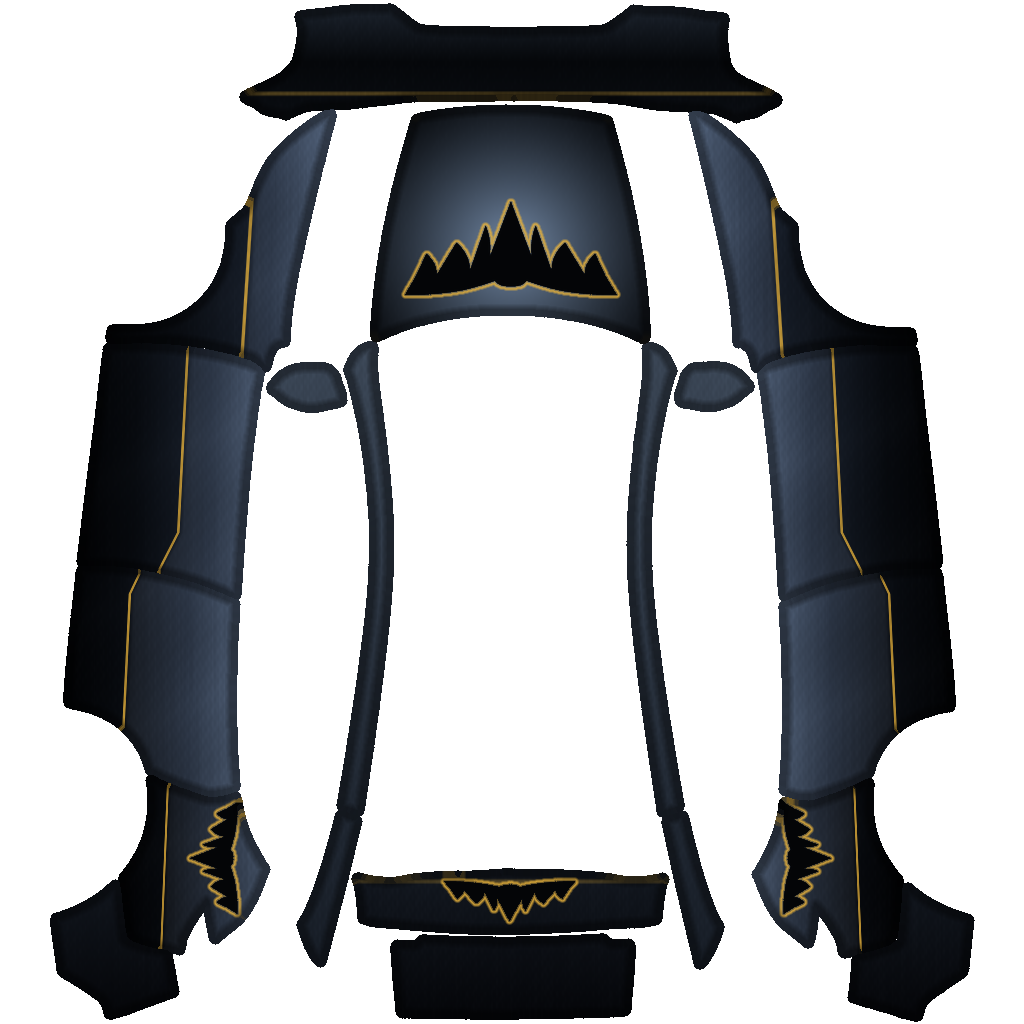
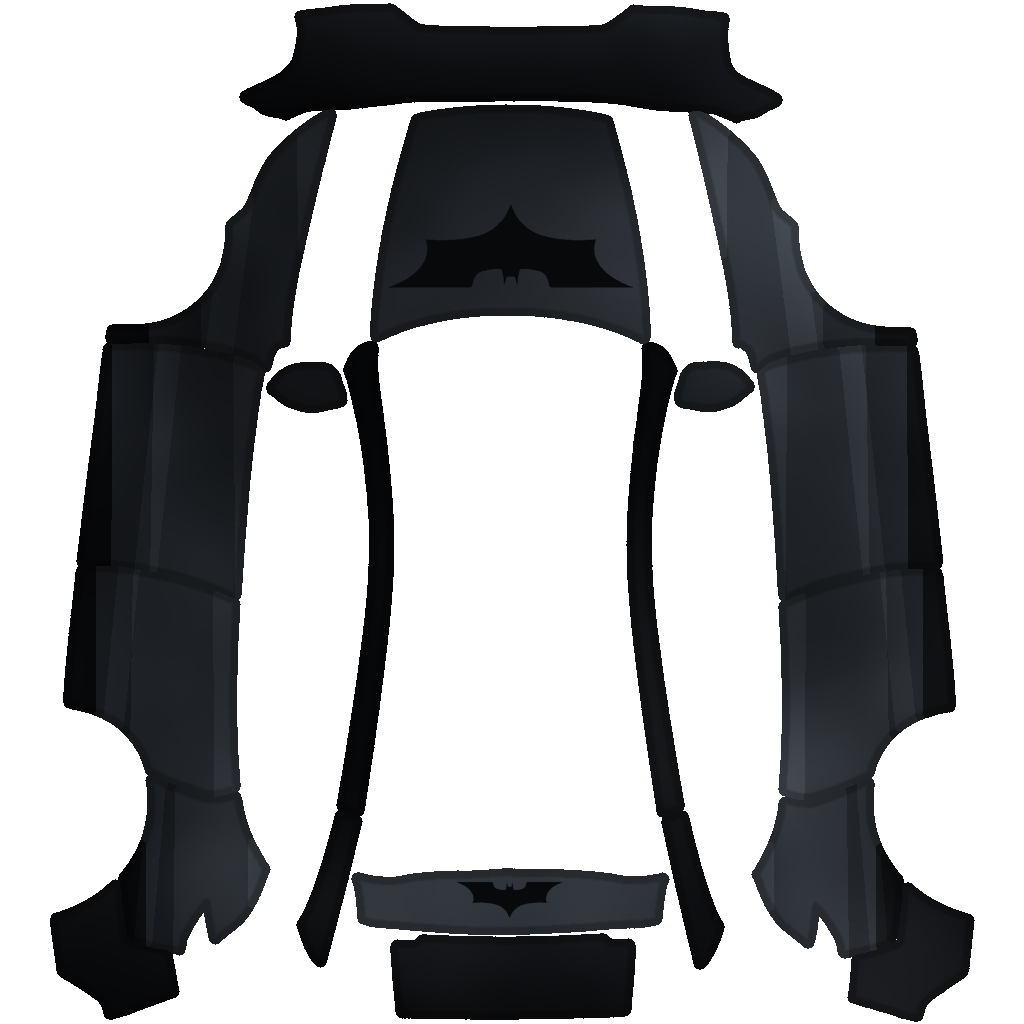
feat(tesla_wraps): trace the Nolan bat, rebuild Dark Knight as matte Tumbler
The hand-drawn bat was a generic gothic silhouette with a long tail. Replaced
it with the wide, flat Dark Knight trilogy shape traced from a reference and
mirrored to be exactly symmetric — height is 0.3385 of width, and _stamp_bat
now derives height from width so the logo can never be stretched to fill a
panel.

Reworked the livery after the Tumbler: flat matte, no accent colour, no
metallic grain or specular sweep (either reads as gloss vinyl). Interest comes
from hard-edged armour facets a few percent apart in value plus one raking
blade across the doors. Dropped the amber hairlines, the hood glow, the emblem
halo and the quarter-panel badges.

Crest placement moved into DARK_KNIGHT_CRESTS with a test asserting each crest
lies entirely inside its island — the rear hatch band is only ~41px of
full-width texture and the previous size clipped the wingtips.

Hood orientation confirmed against Tesla's own Reindeer example, whose muzzle
sits at the bumper and antlers at the windscreen.

diff --git a/skills/tesla_wraps/designs.py b/skills/tesla_wraps/designs.py
@@ -14,6 +14,20 @@ from . import emblems, paint
 from .atlas import SIDE_PANELS, Atlas
 
 
+# Bat crest placements: (panel, centre_y, width, faces_rearward). Centre X is
+# the panel's own centroid. These are sized to the panel rather than centred
+# blindly: the hood tapers towards the bumper so its crest sits aft of centre,
+# and the hatch band is only ~41px of full-width texture, so a wider crest
+# there would clip its wingtips against the rear glass.
+# `flip` orients hood art for a viewer standing at the nose — verified against
+# Tesla's own Reindeer example, whose muzzle points at the bumper and antlers
+# at the windscreen.
+DARK_KNIGHT_CRESTS = (
+    ("hood", 246.0, 244.0, True),
+    ("rear_hatch", 900.0, 106.0, False),
+)
+
+
 class Canvas:
     """A float RGB canvas plus its alpha, with per-panel coordinate frames."""
 
@@ -43,7 +57,7 @@ class Canvas:
     def _seam_proximity(self) -> np.ndarray:
         """1.0 at a panel's edge falling to 0 a few pixels in — for panel-gap shading."""
         depth = paint.edge_distance(self.painted)
-        return np.clip(1.0 - depth / 7.0, 0, 1) * self.painted
+        return np.clip(1.0 - depth / 4.0, 0, 1) * self.painted
 
     def mask(self, *names: str) -> np.ndarray:
         return self.atlas.mask_of(*names)
@@ -61,86 +75,66 @@ def _metal_grain(canvas: Canvas, seed: int, grain: float, weave: float) -> None:
 
 
 def dark_knight(atlas: Atlas) -> Canvas:
-    """Matte black armour with gunmetal facets, amber hairlines and a bat crest."""
+    """Tumbler-inspired matte black: flat armour facets, no shine, bat crest.
+
+    The Tumbler's finish is bead-blasted matte over hard angular plating, so
+    this design deliberately has no accent colour, no gradient that could read
+    as a highlight, and no metallic grain — every bit of interest comes from
+    hard-edged facets sitting a few percent apart in value.
+    """
     c = Canvas(atlas)
     rgb, u, v = c.rgb, c.u, c.v
 
-    INK, GRAPHITE, GUNMETAL = "#05070A", "#161C25", "#2A323E"
-    AMBER, STEEL = "#E8B23A", "#3D4959"
-
-    paint.fill(rgb, c.painted, INK)
-
-    # Body sides: lit along the beltline, falling into black at the rocker.
-    body = c.body
-    paint.gradient(
-        rgb, body, v, [(0.0, "#333F51"), (0.28, "#1B2330"), (0.70, "#080B10"), (1.0, "#020305")]
+    VOID, BLACK, CHARCOAL, GRAPHITE, PLATE = (
+        "#08090B",
+        "#101215",
+        "#191C20",
+        "#23272C",
+        "#2E3238",
     )
-    paint.shade(rgb, -0.18 * u * body)
 
-    # The armour break: a shoulder plate whose lower edge steps down once as it
-    # runs rearward, so the black-on-black split has an angular kink rather than
-    # reading as a plain pinstripe.
-    sweep = 0.30 + 0.30 * u + 0.16 * np.clip((u - 0.52) / 0.06, 0, 1)
-    paint.shade(rgb, 0.34 * np.clip((sweep - v) / 0.03, 0, 1) * body)
-    paint.blend(rgb, AMBER, 0.75 * paint.band(v - sweep, -0.010, 0.010, 0.005) * body)
+    paint.fill(rgb, c.painted, BLACK)
 
-    # Faint angular shards for a plated look.
-    shards = np.abs(((paint.diagonal(c.shape, 68.0) * 11.0) % 1.0) - 0.5) * 2.0
-    paint.shade(rgb, 0.075 * (shards - 0.5) * body)
+    # Armour facets. The boundaries are straight lines in (u, v), so the steps
+    # between them stay angular instead of blending into a soft gradient.
+    body = c.body
+    shoulder = 0.16 - 0.05 * u
+    waist = 0.56 + 0.10 * u
+    sill = 0.82 + 0.03 * u
+    paint.fill(rgb, body & (v < shoulder), PLATE)
+    paint.fill(rgb, body & (v >= shoulder) & (v < waist), GRAPHITE)
+    paint.fill(rgb, body & (v >= waist) & (v < sill), CHARCOAL)
+    paint.fill(rgb, body & (v >= sill), VOID)
 
-    # Trim and glass-adjacent parts stay a shade lighter so the car reads as
-    # black-on-black rather than a single flat slab.
-    trim = c.mask("roof_rail_l", "roof_rail_r", "rail_rear_l", "rail_rear_r", "mirror_l", "mirror_r")
-    paint.fill(rgb, trim, GUNMETAL)
-    paint.gradient(rgb, trim, u, [(0.3, STEEL), (0.95, GRAPHITE)])
+    # The blade: one long wedge raking down across the doors as it runs
+    # rearward, which is the Tumbler's defining line.
+    rake = 0.36 + 0.62 * u
+    paint.shade(rgb, 0.15 * (body & (v > rake - 0.13) & (v < rake)))
+    paint.shade(rgb, -0.10 * u * body)
 
-    # Front fascia: graphite across the top edge, amber hairline underneath.
+    # Trim stays flat black — the Tumbler has no bright work anywhere.
+    paint.fill(rgb, c.mask("roof_rail_l", "roof_rail_r", "rail_rear_l", "rail_rear_r"), VOID)
+    paint.fill(rgb, c.mask("mirror_l", "mirror_r"), CHARCOAL)
+
     fascia = c.mask("front_fascia")
-    paint.gradient(rgb, fascia, u, [(0.005, "#1B222C"), (0.06, INK), (0.12, "#0A0D12")])
-    paint.blend(rgb, AMBER, 0.55 * paint.band(u, 0.088, 0.094, 0.004) * fascia)
+    paint.gradient(rgb, fascia, u, [(0.005, CHARCOAL), (0.055, BLACK), (0.115, VOID)])
 
-    # Rear: hairline above the plate, mirrored on the lower fascia.
-    rear = c.mask("rear_hatch", "rear_fascia", "rear_corner_l", "rear_corner_r")
-    paint.gradient(rgb, rear, u, [(0.85, "#12171F"), (1.0, "#040508")])
-    paint.blend(rgb, AMBER, 0.5 * paint.band(u, 0.858, 0.864, 0.004) * rear)
+    rear = c.mask("rear_fascia", "rear_corner_l", "rear_corner_r")
+    paint.gradient(rgb, rear, u, [(0.85, BLACK), (1.0, VOID)])
 
-    _metal_grain(c, seed=11, grain=0.055, weave=0.030)
-
-    # Bat crest on the hood, sitting in a bat-signal pool of cold light. The
-    # crest sits low on the island because the hood tapers towards the nose.
     hood = c.mask("hood")
-    hx, _ = c.centre_of("hood")
-    hy = 248.0
-    r = paint.radial(c.shape, hx, hy, 178.0)
-    paint.blend(rgb, "#7288A5", np.clip(1.0 - r, 0, 1) ** 1.25 * hood)
-    paint.blend(rgb, AMBER, 0.18 * paint.band(r, 0.88, 1.0, 0.07) * hood)
-    # Hood art is read by someone standing at the nose, so it faces rearward.
-    _stamp_bat(c, hood, hx, hy, width=212.0, height=94.0, amber=AMBER, flip=True)
-
-    # Smaller crest on the rear hatch band.
+    paint.gradient(rgb, hood, u, [(0.107, CHARCOAL), (0.33, PLATE)])
     hatch = c.mask("rear_hatch")
-    rx, ry = c.centre_of("rear_hatch")
-    _stamp_bat(c, hatch, rx, ry, width=132.0, height=40.0, amber=AMBER)
+    paint.fill(rgb, hatch, GRAPHITE)
 
-    # Quarter-panel badges, sitting just under the beltline on each flank.
-    for side in ("l", "r"):
-        name = f"quarter_panel_{side}"
-        x0, _, x1, _ = atlas[name].bbox
-        span = x1 - 1 - x0
-        bx = (x1 - 1 - 0.36 * span) if side == "l" else (x0 + 0.36 * span)
-        _stamp_bat(
-            c,
-            c.mask(name),
-            bx,
-            858.0,
-            width=112.0,
-            height=48.0,
-            amber=AMBER,
-            rotate=90 if side == "l" else -90,
-        )
+    paint.shade(rgb, paint.matte_grain(c.shape, seed=11) * c.painted)
 
-    # Darken every panel edge so the seams read as real panel gaps.
-    paint.shade(rgb, -0.45 * c.seam)
+    for panel, cy, width, flip in DARK_KNIGHT_CRESTS:
+        cx, _ = c.centre_of(panel)
+        _stamp_bat(c, c.mask(panel), cx, cy, width=width, colour=VOID, flip=flip)
+
+    # Panel gaps, kept shallow so they read as shut lines rather than outlines.
+    paint.shade(rgb, -0.30 * c.seam)
     return c
 
 
@@ -150,17 +144,22 @@ def _stamp_bat(
     cx: float,
     cy: float,
     width: float,
-    height: float,
-    amber: str,
+    colour: str,
     flip: bool = False,
     rotate: int = 0,
 ):
+    """Stamp the bat at its true aspect ratio — never stretched to fit a panel."""
     bat = emblems.stamp(
-        c.shape, emblems.bat_outline(), cx, cy, width, height, flip=flip, rotate=rotate
+        c.shape,
+        emblems.bat_outline(),
+        cx,
+        cy,
+        width,
+        width * emblems.BAT_ASPECT,
+        flip=flip,
+        rotate=rotate,
     )
-    halo = emblems.outlined(bat, thickness=2.4)
-    paint.blend(c.rgb, "#040507", bat * mask)
-    paint.blend(c.rgb, amber, 0.9 * halo * mask)
+    paint.blend(c.rgb, colour, bat * mask)
 
 
 def iron_man(atlas: Atlas) -> Canvas:

diff --git a/skills/tesla_wraps/emblems.py b/skills/tesla_wraps/emblems.py
@@ -13,53 +13,39 @@ from . import paint
 
 SUPERSAMPLE = 4
 
-def _arc(p0, p1, bulge: float, steps: int = 14):
-    """Quadratic Bezier from ``p0`` to ``p1``, bowed perpendicular by ``bulge``.
+# Right half of the wide, angular Nolan-trilogy bat, walked from the tail point
+# up the inner edge to the wing tip and back along the top to the ear notch.
+# Traced from a reference silhouette, simplified, then mirrored below so the
+# emblem is exactly symmetric. Height is 0.3385 of the width — the shape is far
+# flatter than a classic comic bat, and getting that ratio wrong is the single
+# most obvious way to make it look like fan art.
+BAT_ASPECT = 0.3385
 
-    Positive bulge bows towards the top of the emblem box, which is what carves
-    the scooped membrane between a bat wing's finger points.
-    """
-    (x0, y0), (x1, y1) = p0, p1
-    dx, dy = x1 - x0, y1 - y0
-    length = max((dx * dx + dy * dy) ** 0.5, 1e-9)
-    mx, my = (x0 + x1) / 2, (y0 + y1) / 2
-    cx, cy = mx + (dy / length) * bulge, my - (dx / length) * bulge
-    ts = [i / steps for i in range(1, steps + 1)]
-    return [
-        (
-            (1 - t) ** 2 * x0 + 2 * (1 - t) * t * cx + t**2 * x1,
-            (1 - t) ** 2 * y0 + 2 * (1 - t) * t * cy + t**2 * y1,
-        )
-        for t in ts
-    ]
-
-
-# Right half of the bat, walked clockwise from the crown of the head to the tip
-# of the tail. Each entry is (vertex, bulge-of-segment-leading-to-it).
 _BAT_RIGHT = [
-    ((0.075, 0.105), 0.030),  # head crown -> neck
-    ((0.500, 0.000), 0.070),  # wing leading edge, bowed up to a sharp tip
-    ((0.445, 0.150), 0.000),  # trailing edge under the tip
-    ((0.398, 0.315), 0.000),  # finger 1
-    ((0.348, 0.155), 0.026),  # membrane scoop
-    ((0.256, 0.400), 0.000),  # finger 2
-    ((0.192, 0.192), 0.034),
-    ((0.118, 0.530), 0.000),  # finger 3
-    ((0.098, 0.295), 0.020),
-    ((0.000, 0.715), 0.000),  # tail point
+    (0.0000, 1.0000), (0.0190, 0.8756), (0.0345, 0.8096), (0.0681, 0.7157),
+    (0.0836, 0.6853), (0.1112, 0.6447), (0.1147, 0.6447), (0.1198, 0.6345),
+    (0.1233, 0.6345), (0.1250, 0.6294), (0.1284, 0.6294), (0.1353, 0.6193),
+    (0.1405, 0.6193), (0.1474, 0.6091), (0.1526, 0.6091), (0.1543, 0.6041),
+    (0.1612, 0.6041), (0.1629, 0.5990), (0.1698, 0.5990), (0.1716, 0.5939),
+    (0.1784, 0.5939), (0.1802, 0.5888), (0.1905, 0.5888), (0.1922, 0.5838),
+    (0.2026, 0.5838), (0.2043, 0.5787), (0.2216, 0.5787), (0.2233, 0.5736),
+    (0.2509, 0.5736), (0.2526, 0.5685), (0.3060, 0.5685), (0.3078, 0.5736),
+    (0.3422, 0.5736), (0.3440, 0.5787), (0.3474, 0.5787), (0.3414, 0.4898),
+    (0.3431, 0.4036), (0.3500, 0.3376), (0.3672, 0.2513), (0.3888, 0.1827),
+    (0.4078, 0.1371), (0.4284, 0.0964), (0.4647, 0.0406), (0.4681, 0.0406),
+    (0.4853, 0.0152), (0.4888, 0.0152), (0.4957, 0.0051), (0.4991, 0.0051),
+    (0.4991, 0.0000), (0.1647, 0.0000), (0.1586, 0.0178), (0.1534, 0.0838),
+    (0.1448, 0.1396), (0.1319, 0.1777), (0.1284, 0.1827), (0.1250, 0.1827),
+    (0.1147, 0.1980), (0.1095, 0.1980), (0.1078, 0.2030), (0.1026, 0.2030),
+    (0.1009, 0.2081), (0.0957, 0.2081), (0.0940, 0.2132), (0.0853, 0.2132),
+    (0.0836, 0.2183), (0.0750, 0.2183), (0.0733, 0.2234), (0.0422, 0.2234),
+    (0.0362, 0.2107), (0.0293, 0.1244), (0.0267, 0.0305), (0.0164, 0.1320),
 ]
 
 
 def bat_outline() -> list[tuple[float, float]]:
-    """Closed outline of the bat, normalised to fill x in -0.5..0.5, y in 0..1."""
-    right = [(0.0, 0.062)]
-    for vertex, bulge in _BAT_RIGHT:
-        right.extend(_arc(right[-1], vertex, bulge) if bulge else [vertex])
-    points = right + [(-x, y) for x, y in reversed(right[:-1])]
-
-    lo = min(y for _, y in points)
-    hi = max(y for _, y in points)
-    return [(x, (y - lo) / (hi - lo)) for x, y in points]
+    """Closed outline of the bat, normalised to x in -0.5..0.5, y in 0..1."""
+    return list(_BAT_RIGHT) + [(-x, y) for x, y in reversed(_BAT_RIGHT)]
 
 
 def stamp(
@@ -94,15 +80,6 @@ def stamp(
         points.append((px * SUPERSAMPLE, py * SUPERSAMPLE))
     ImageDraw.Draw(canvas).polygon(points, fill=255)
     return np.asarray(canvas.resize((w, h), Image.LANCZOS), dtype=np.float64) / 255.0
-
-
-def outlined(mask: np.ndarray, thickness: float = 2.0) -> np.ndarray:
-    """A soft halo just outside ``mask``, for emblem pinstripes."""
-    from scipy import ndimage
-
-    solid = mask > 0.5
-    outside = ndimage.distance_transform_edt(~solid)
-    return np.clip(1.0 - np.abs(outside - thickness) / thickness, 0, 1) * (~solid)
 
 
 def arc_reactor(

diff --git a/skills/tesla_wraps/test_tesla_wraps.py b/skills/tesla_wraps/test_tesla_wraps.py
@@ -13,7 +13,7 @@ import pytest
 
 from . import emblems, paint
 from .atlas import ALL_PANELS, SIDE_PANELS, load_template
-from .designs import DESIGNS
+from .designs import DARK_KNIGHT_CRESTS, DESIGNS
 from .generate import NAME_RE, render, validate
 
 
@@ -78,7 +78,18 @@ def test_bat_outline_is_normalised_and_symmetric():
     xs = [x for x, _ in points]
     ys = [y for _, y in points]
     assert min(ys) == pytest.approx(0.0) and max(ys) == pytest.approx(1.0)
-    assert min(xs) == pytest.approx(-0.5) and max(xs) == pytest.approx(0.5)
+    assert min(xs) == pytest.approx(-0.5, abs=0.002)
+    assert max(xs) == pytest.approx(0.5, abs=0.002)
+    assert sorted(xs) == pytest.approx(sorted(-x for x in xs))
+
+
+def test_bat_keeps_the_flat_nolan_proportions():
+    """A bat stamped at BAT_ASPECT must come out wide and low, not comic-book."""
+    mask = emblems.stamp(
+        (256, 256), emblems.bat_outline(), 128, 128, 200, 200 * emblems.BAT_ASPECT
+    )
+    ys, xs = np.nonzero(mask > 0.5)
+    assert np.ptp(ys) / np.ptp(xs) == pytest.approx(emblems.BAT_ASPECT, abs=0.03)
 
 
 def test_stamp_rotation_swaps_the_emblem_axes():
@@ -132,6 +143,24 @@ def test_rendered_wrap_meets_tesla_requirements(atlas, name, tmp_path):
     # Every UV island must be painted; an unpainted panel renders as bare car.
     for panel in SIDE_PANELS:
         assert arr[..., 3][atlas[panel].mask].min() == 255, panel
+
+
+@pytest.mark.parametrize("panel,cy,width,flip", DARK_KNIGHT_CRESTS)
+def test_bat_crest_fits_inside_its_panel(atlas, panel, cy, width, flip):
+    """A crest that overruns its island gets sliced off against the glass."""
+    island = atlas[panel]
+    cx = island.centroid[0]
+    crest = emblems.stamp(
+        atlas.size[::-1],
+        emblems.bat_outline(),
+        cx,
+        cy,
+        width,
+        width * emblems.BAT_ASPECT,
+        flip=flip,
+    )
+    assert (crest > 0.5).sum() > 0
+    assert not ((crest > 0.02) & ~island.mask).any()
 
 
 @pytest.mark.parametrize("stem", ["Dark_Knight", "Iron_Man", "a b-c_1"])

diff --git a/skills/tesla_wraps/paint.py b/skills/tesla_wraps/paint.py
@@ -80,6 +80,19 @@ def carbon_weave(shape: tuple[int, int], pitch: int = 6) -> np.ndarray:
     return np.clip(0.7 * a + 0.3 * b, -1, 1)
 
 
+def matte_grain(shape: tuple[int, int], seed: int, tooth: float = 0.011) -> np.ndarray:
+    """Fine isotropic grain in roughly -1..1, for a bead-blasted matte surface.
+
+    Deliberately directionless: any streaking or highlight reads as satin or
+    gloss vinyl, which is the opposite of the finish this is imitating.
+    """
+    rng = np.random.default_rng(seed)
+    fine = ndimage.gaussian_filter(rng.standard_normal(shape), sigma=1.1)
+    fine /= max(np.abs(fine).max(), 1e-9)
+    broad = (fractal_noise(shape, seed + 1, octaves=3, base=110.0) - 0.5) * 2.0
+    return tooth * fine + 0.5 * broad
+
+
 def brushed(shape: tuple[int, int], seed: int, length: float = 26.0) -> np.ndarray:
     """Directional streaks in -1..1, for brushed/anodised metal."""
     rng = np.random.default_rng(seed)
@@ -106,8 +119,3 @@ def diagonal(shape: tuple[int, int], angle_deg: float, phase: float = 0.0) -> np
     proj = xs * np.cos(rad) + ys * np.sin(rad)
     proj -= proj.min()
     return proj / max(proj.max(), 1e-9) + phase
-
-
-def to_image_arrays(canvas: np.ndarray, alpha: np.ndarray) -> tuple[np.ndarray, np.ndarray]:
-    rgb = np.rint(np.clip(canvas, 0, 1) * 255).astype(np.uint8)
-    return rgb, alpha.astype(np.uint8)

diff --git a/skills/tesla_wraps/README.md b/skills/tesla_wraps/README.md
@@ -8,8 +8,24 @@ Two designs ship today, both rendered for the **2025+ Model Y Premium**
 
 | Design | File | Look |
 |---|---|---|
-| Dark Knight | [`wraps/Dark_Knight.png`](wraps/Dark_Knight.png) | Matte black over gunmetal armour, amber hairline down each flank, bat crest on the hood in a pool of cold light, badges on the quarter panels and rear hatch |
+| Dark Knight | [`wraps/Dark_Knight.png`](wraps/Dark_Knight.png) | Tumbler-inspired matte black: hard-edged armour facets a few percent apart in value, one raking blade across the doors, bat crest on the hood and rear hatch |
 | Iron Man | [`wraps/Iron_Man.png`](wraps/Iron_Man.png) | Hot-rod red with gold shoulder plating and a gold spine down the hood, charcoal rocker skirt, arc reactor on the hood and rear fascia |
+
+### On the Dark Knight finish
+
+The Tumbler's paint is bead-blasted matte over angular plating, so that design
+carries no accent colour, no metallic grain, and no gradient that could read as
+a highlight — a single specular sweep makes the whole thing look like gloss
+vinyl instead. All the interest comes from hard facet steps between five close
+values of near-black, plus `paint.matte_grain()`, which is deliberately
+directionless because any streaking reads as satin.
+
+The crest is the wide, flat Nolan-trilogy silhouette (`emblems.BAT_ASPECT` =
+0.3385 — barely a third as tall as it is wide). Getting that ratio wrong is the
+fastest way to make it look like fan art, so `_stamp_bat()` always derives
+height from width and never stretches the shape to fill a panel. It is a
+Warner Bros. trademark; this is a personal-use vehicle wrap, not artwork to
+redistribute.
 
 ## Getting them onto the car
 
